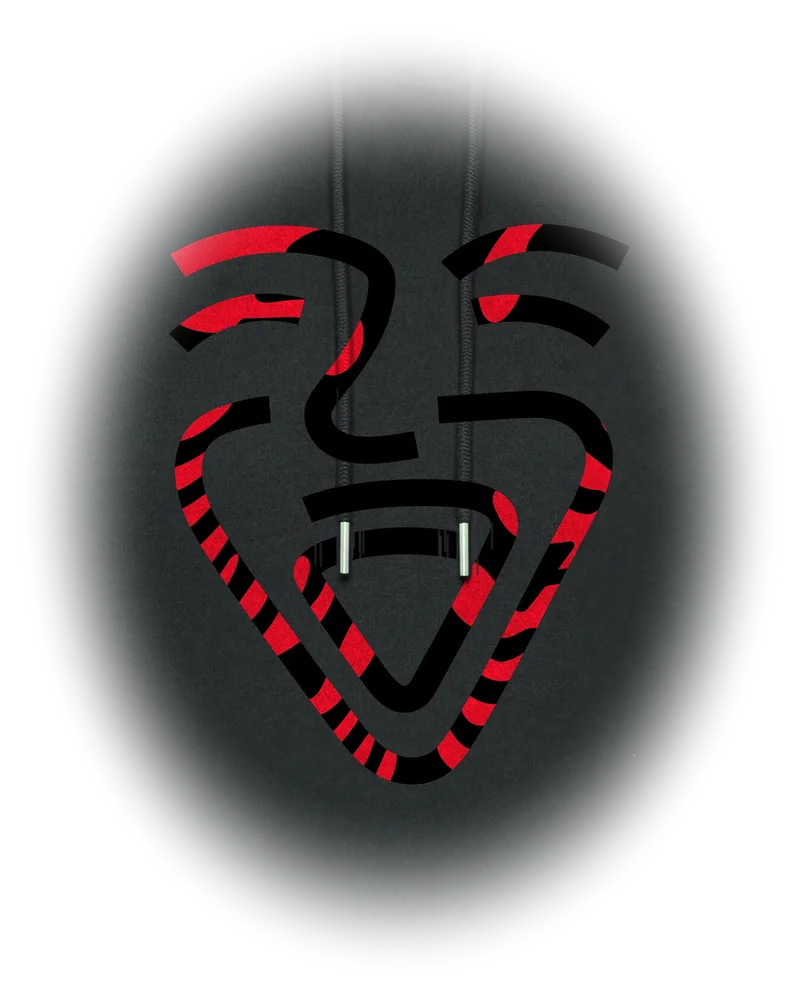
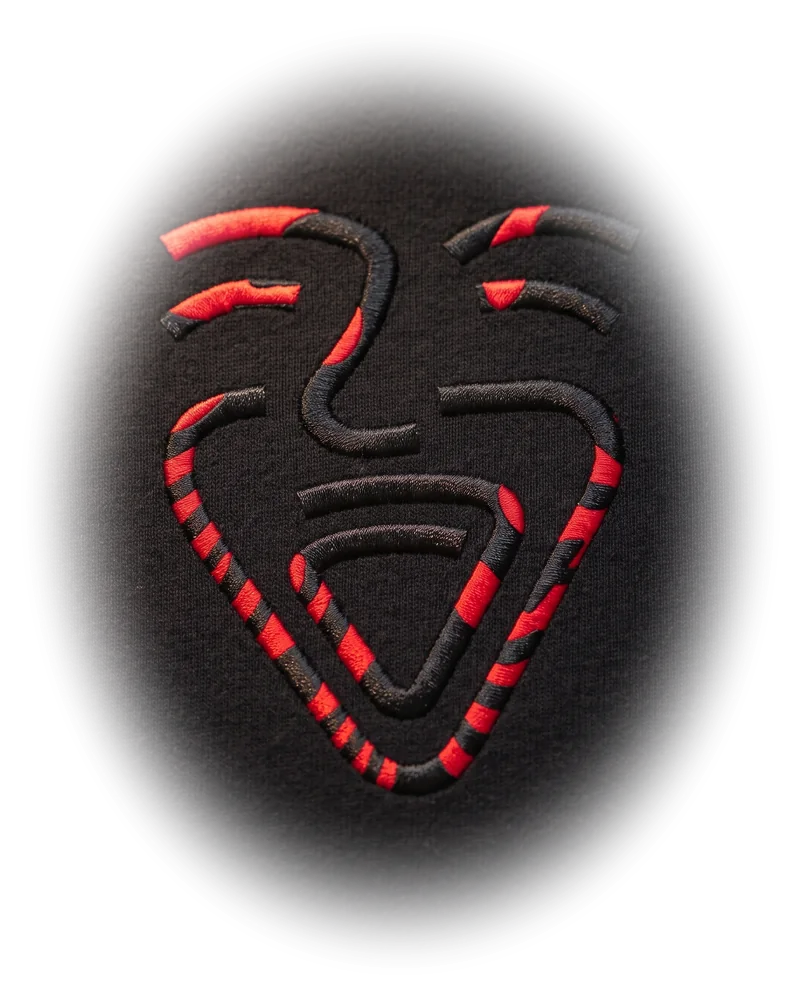
Uebersicht: Albanien-Kachel zeigt den Stick als Nahfoto statt des Hoodie-Drucks
Das Werkzeug fuer die Ausschnitte ueberschreibt diese Kachel nicht mehr.

Changed region(s): [[0.1562, 0.186, 0.875, 0.837], [0.3125, 0.713, 0.3438, 0.744]]

diff --git a/lib/shop/zeichenbilder.ts b/lib/shop/zeichenbilder.ts
@@ -17,6 +17,16 @@
 // Übersicht wie früher das Produktbild im hellen Kasten — sichtbar falsch, aber
 // nicht kaputt.
 //
+// AUSNAHME ALBANIEN (seit 22.11.2026): Die Datei kommt NICHT aus tools/zeichen-ausschnitt.py,
+// sondern ist ein Nahfoto des STICKS auf schwarzem Fleece, aus
+// ~/Projekte/onefam-material/mockups/zeichen-stick/albania.webp (dort auch LIESMICH.md).
+// Labis Entscheid vom 22.11.2026: Die Kachel zeigt den Stick als realistisches Nahfoto statt
+// des Hoodie-Drucks. Bei Albanien ist der Hoodie bedruckt, Shirt und Sweater sind bestickt —
+// die Kachel zeigt bewusst den Stick. Format wie die anderen: 800 x 1000, WebP mit
+// Durchsichtigkeit, ovaler Auslauf. Das Werkzeug weigert sich deshalb, albania.webp zu
+// überschreiben; wer das Foto ersetzt, kopiert die neue Datei von Hand hierher.
+// Weitere Stick-Kacheln (San Marino liegt bereit) kommen dazu, sobald das Land Produkte hat.
+//
 // Schlüssel ist der Kategorie-Slug des Shops (derselbe wie in lib/shop/laender.ts).
 
 export const ZEICHENBILD: Record<string, string> = {

diff --git a/tools/zeichen-ausschnitt.py b/tools/zeichen-ausschnitt.py
@@ -38,6 +38,10 @@ from PIL import Image
 KASTEN = (1106, 852, 2606, 2727)
 GROESSE = (800, 1000)  # Kachel höchstens 385 px breit (vier Spalten bei 1680 px), mal zwei für scharfe Bildschirme
 
+# Diese Kacheln sind KEINE Ausschnitte aus dem Hoodie-Bild, sondern von Hand eingesetzte
+# Nahfotos des Sticks (lib/shop/zeichenbilder.ts). Das Werkzeug überschreibt sie nicht.
+VON_HAND = {"albania"}
+
 
 def weich(t):
     """0 → 1 ohne Knick an beiden Enden."""
@@ -49,6 +53,8 @@ def main():
     if len(sys.argv) != 3:
         sys.exit(__doc__)
     slug, quelle = sys.argv[1], sys.argv[2]
+    if slug in VON_HAND:
+        sys.exit(f"{slug}.webp ist ein Stick-Nahfoto und wird nicht aus dem Hoodie-Bild erzeugt (siehe lib/shop/zeichenbilder.ts).")
     if quelle.startswith("https://"):
         with urllib.request.urlopen(urllib.request.Request(quelle, headers={"User-Agent": "zeichen-ausschnitt"})) as antwort:
             bild = Image.open(io.BytesIO(antwort.read()))

diff --git a/docs/stand.md b/docs/stand.md
@@ -94,6 +94,21 @@ im Hellen ansehen, bevor alle Länder so gemacht werden.
 `/de/produkt/albania-hoodie`, `/de/shop-by-country`. Port 3004 mit `web_453C35` zeigt den helleren Ton,
 Port 3005 und 3006 die schwebenden Fassungen (Aufrufe in `LIESMICH.md`).
 
+## 🧵 22.11.2026: Albanien-Kachel zeigt den Stick
+
+Labi: Stick-Kachel für „Jetzt verfügbar“ einbauen, „san marino musst du noch nicht machen nur
+albanien“ — „und dann committen und pushen was wir alles neu gemacht haben an der webseite“.
+
+- `public/shop/zeichen/albania.webp` ist jetzt das Nahfoto des Sticks auf schwarzem Fleece (Quelle
+  `~/Projekte/onefam-material/mockups/zeichen-stick/albania.webp`, 800 × 1000, 137 KB, unverändert
+  übernommen). Begründung und Ausnahme vom Werkzeug: `lib/shop/zeichenbilder.ts`.
+- Angesehen auf `/de/shop-by-country#jetzt` bei 1440 px: Zeichen gleich gross und an derselben
+  Stelle wie bei Afghanistan, Andorra, Argentinien; ovaler Rand ohne Kante (Deckkraft am Bildrand 0).
+  **Unterschied, der bleibt:** Der Stoff der Stick-Kachel ist ein tiefes, warmes Schwarz mit Relief,
+  die drei Druck-Kacheln sind kühler und heller und zeigen Kordeln. Einheitlich wird die Reihe
+  erst, wenn die anderen Länder dieselbe Art Bild bekommen.
+- San Marino: Datei liegt bereit, nicht eingebaut (noch kein Land im Shop).
+
 ## ✅ 22.11.2026: Länderseite am Handy zum Wischen, Linie heisst „Logo Black“ (lokal, nicht gepusht)
 
 Labi zu den zwei offenen Entscheiden: „ok wir machen so wie du es vorschlägst“.

diff --git a/docs/RUNBOOK-laenderlauf.md b/docs/RUNBOOK-laenderlauf.md
@@ -583,6 +583,11 @@ Das schreibt `public/shop/zeichen/<slug>.webp` (800 × 1000, rund 80–100 KB). 
 hellen Kasten. Der Ausschnitt passt nur auf das 4k-Bild (3712 × 4608); das Werkzeug bricht bei
 anderer Grösse ab. Slug = Kategorie-Slug des Shops (`albania`, nicht `albanien`).
 
+**Ausnahme Albanien:** Die Kachel ist seit 22.11.2026 ein Nahfoto des Sticks (Quelle
+`~/Projekte/onefam-material/mockups/zeichen-stick/albania.webp`), kein Ausschnitt aus dem
+Hoodie-Bild. Das Werkzeug überschreibt sie nicht; eine neue Fassung wird von Hand nach
+`public/shop/zeichen/albania.webp` kopiert. Weitere Stick-Kacheln kommen so dazu.
+
 ## 9. Aufräumen
 **Löschen macht Labi selbst**, der Assistent bereitet nur die Auswahl vor.
 Vor jedem Löschen prüfen, ob eine Datei live ist — **Produkte, Varianten, Kategorien
